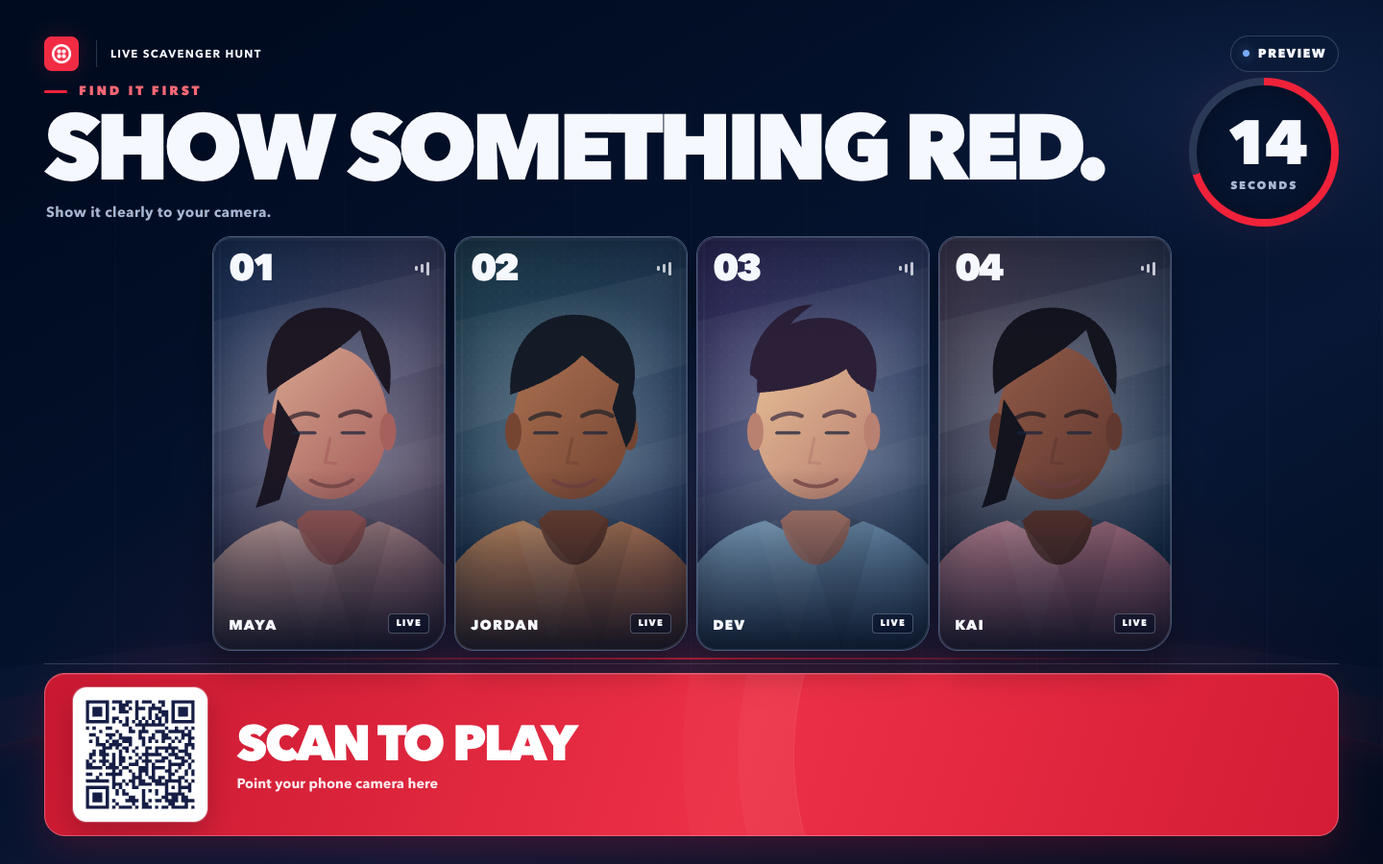
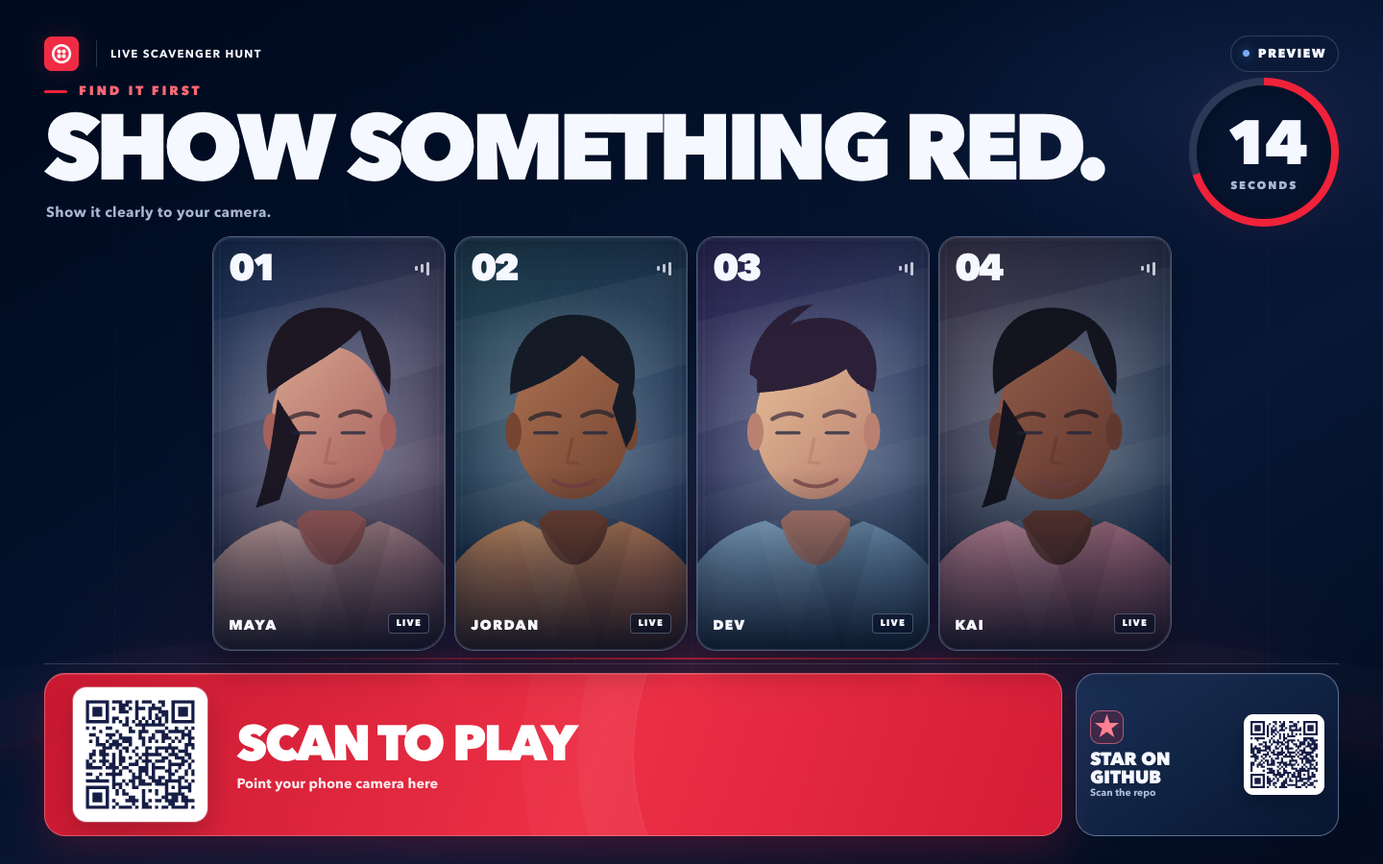
Promote GitHub repo across arena and attendee screens

Changed region(s): [[0.75, 0.7778, 0.9688, 0.9956]]

diff --git a/app/public/arena.html b/app/public/arena.html
@@ -228,6 +228,7 @@
     @keyframes go-flash { 0% { opacity: 0; transform: scale(.65); } 15% { opacity: 1; } 100% { opacity: 0; transform: scale(1.55); } }
 
     .footer { display: flex; align-items: stretch; justify-content: space-between; gap: clamp(12px, 1.6vw, 30px); min-width: 0; padding-top: clamp(8px, 1vh, 14px); border-top: 1px solid var(--line); }
+    .join-shell { flex: 1 1 auto; min-width: 0; display: flex; align-items: stretch; gap: clamp(10px, 1vw, 18px); }
     .join {
       position: relative; isolation: isolate; overflow: hidden;
       flex: 1 1 auto; display: flex; align-items: center;
@@ -246,12 +247,31 @@
     .qr-wrap svg { display: block; width: 100%; height: 100%; }
     .join-title { margin-top: clamp(4px, .6vh, 9px); font: 800 clamp(34px, 3.6vw, 67px)/.94 var(--font-display); letter-spacing: -.055em; text-transform: uppercase; white-space: nowrap; }
     .join-detail { margin-top: clamp(7px, .7vh, 12px); color: rgba(255,255,255,.9); font-size: clamp(13px, 1vw, 19px); font-weight: 700; white-space: nowrap; }
+    .github-star {
+      flex: 0 0 clamp(205px, 19vw, 286px); min-width: 0;
+      display: flex; align-items: center; justify-content: space-between; gap: 9px;
+      padding: clamp(10px, .95vw, 16px);
+      border: 1px solid rgba(174,199,240,.44); border-radius: clamp(16px, 1.5vw, 26px);
+      background: linear-gradient(145deg, rgba(25,49,88,.96), rgba(8,22,48,.95));
+      box-shadow: 0 14px 32px rgba(0,8,27,.2), 0 1px rgba(255,255,255,.07) inset;
+      color: var(--paper); text-decoration: none;
+      transition: border-color .2s ease, transform .2s ease, background .2s ease;
+    }
+    .github-star:hover { border-color: rgba(255,158,172,.8); transform: translateY(-2px); background: linear-gradient(145deg, rgba(42,55,91,.99), rgba(18,27,56,.97)); }
+    .github-star-copy { min-width: 0; display: flex; flex-direction: column; align-items: flex-start; justify-content: center; gap: clamp(6px, .7vh, 10px); }
+    .github-star-symbol { width: clamp(26px, 2.5vw, 35px); height: clamp(26px, 2.5vw, 35px); flex: none; display: grid; place-items: center; border-radius: 10px; background: rgba(239,34,58,.18); border: 1px solid rgba(255,124,143,.59); color: #ff8192; font-size: clamp(18px, 1.8vw, 26px); line-height: 1; }
+    .github-star-title { display: block; font: 800 clamp(14px, 1.32vw, 20px)/1 var(--font-display); letter-spacing: -.02em; text-transform: uppercase; text-wrap: balance; }
+    .github-star-short { display: none; }
+    .github-star-detail { display: block; color: #afc0db; font-size: clamp(9px, .72vw, 11px); font-weight: 700; line-height: 1.2; }
+    .github-qr-wrap { width: clamp(84px, 9.2vh, 112px); height: clamp(84px, 9.2vh, 112px); flex: none; display: grid; place-items: center; padding: 5px; border-radius: 10px; background: #fff; box-shadow: 0 8px 19px rgba(0,7,25,.35); }
+    .github-qr-wrap img { display: block; width: 100%; height: 100%; object-fit: contain; }
     .footer-status { flex: 0 1 27%; display: flex; align-items: center; justify-content: flex-end; gap: clamp(14px, 2vw, 32px); min-width: 0; padding: 18px clamp(15px, 2vw, 30px); border: 1px solid var(--line); border-radius: clamp(16px, 1.5vw, 26px); background: rgba(8,25,53,.7); text-align: right; }
     .footer-status[hidden] { display: none; }
     .footer-line { font: 800 clamp(16px, 1.45vw, 25px)/1.1 var(--font-display); letter-spacing: -.035em; text-wrap: balance; }
     .footer-detail { margin-top: 6px; color: var(--muted); font-size: clamp(10px, .84vw, 14px); font-weight: 700; text-wrap: balance; }
     .screen[data-phase="result"] .footer-status .footer-line { color: var(--paper); }
 
+    @media (max-width: 1100px) { .footer-status { display: none !important; } }
     @media (max-width: 900px) {
       .screen { grid-template-rows: 48px clamp(100px, 16vh, 145px) minmax(0, 1fr) clamp(138px, 18vh, 180px); padding: 18px 24px 16px; }
       .brand-event { max-width: 22vw; }
@@ -263,6 +283,11 @@
       .clock-value { font-size: 41px; }
       .tile-state { display: none; }
       .qr-wrap { width: clamp(105px, 14.2vh, 140px); height: clamp(105px, 14.2vh, 140px); }
+      .github-star { flex-basis: clamp(130px, 18vw, 180px); align-self: center; justify-content: center; height: clamp(72px, 10vh, 100px); }
+      .github-star-copy { flex-direction: row; align-items: center; gap: 7px; }
+      .github-qr-wrap, .github-star-detail, .github-star-full { display: none; }
+      .github-star-short { display: block; font-size: 14px; }
+      .github-star-symbol { width: 29px; height: 29px; font-size: 20px; }
     }
     @media (max-width: 680px) {
       .screen { grid-template-rows: 44px clamp(104px, 17.5vh, 150px) minmax(0, 1fr) clamp(116px, 17.5vh, 142px); padding: 12px 14px 12px; }
@@ -290,13 +315,17 @@
       .footer { gap: 8px; padding-top: 7px; }
       .qr-wrap { width: clamp(70px, 12vh, 88px); height: clamp(70px, 12vh, 88px); border-radius: 8px; padding: 5px; }
       .join { gap: 11px; padding: 8px 12px; border-radius: 13px; }.join-title { font-size: clamp(20px, 5.5vw, 29px); }.join-detail { display: none; }
+      .github-star { flex-basis: clamp(86px, 20vw, 125px); height: clamp(54px, 8vh, 70px); padding: 6px; border-radius: 13px; }
+      .github-star-copy { gap: 4px; }.github-star-symbol { width: 24px; height: 24px; border-radius: 7px; font-size: 17px; }.github-star-short { font-size: clamp(9px, 2vw, 12px); }
       .footer-status { display: none !important; }
       .footer-line { font-size: clamp(11px, 3.2vw, 15px); white-space: normal; }.footer-detail { font-size: 9px; white-space: normal; }
     }
     @media (max-width: 430px) { .screen.controls-visible .brand-event { opacity: 0; } }
     @media (max-width: 360px) {
       .screen { padding-left: 10px; padding-right: 10px; }
-      .join-title { font-size: 19px; }
+      .qr-wrap { width: 54px; height: 54px; }
+      .join { gap: 6px; padding-inline: 8px; }.join-title { font-size: 17px; }
+      .github-star { flex-basis: 86px; }.github-star-short { font-size: 9px; }
     }
     @media (max-height: 650px) and (min-width: 681px) {
       .screen { grid-template-rows: 44px 89px minmax(0,1fr) clamp(118px, 20vh, 132px); padding-top: 10px; padding-bottom: 10px; }
@@ -338,6 +367,10 @@
     html[data-theme="light"] .player-tile.is-winner .tile-state { color: #ffffff; }
     html[data-theme="light"] .countdown-number { color: #ffffff; text-shadow: 0 0 25px rgba(217,30,55,.7), 0 7px 36px rgba(11,27,57,.72); }
     html[data-theme="light"] .footer-status { background: rgba(255,255,255,.84); box-shadow: 0 12px 30px rgba(40,72,125,.1); }
+    html[data-theme="light"] .github-star { border-color: rgba(60,91,143,.4); background: linear-gradient(145deg, #fff, #eaf1fc); box-shadow: 0 12px 28px rgba(40,72,125,.11); }
+    html[data-theme="light"] .github-star:hover { border-color: rgba(188,44,69,.68); background: linear-gradient(145deg, #fff, #f7eefa); }
+    html[data-theme="light"] .github-star-symbol { background: #fff0f2; border-color: #d76075; color: #b71934; }
+    html[data-theme="light"] .github-star-detail { color: #526886; }
     @media (prefers-reduced-motion: reduce) {
       *, *::before, *::after { animation-duration: .01ms !important; animation-iteration-count: 1 !important; scroll-behavior: auto !important; transition-duration: .01ms !important; }
     }
@@ -364,7 +397,7 @@
     <section class="field" id="field" aria-label="Player camera wall"><div class="players" id="players" data-slots="2"></div><div class="countdown-overlay" aria-live="assertive"><span class="countdown-number" id="countdownNumber">3</span></div><div class="go-burst" aria-hidden="true"></div><div class="result-effects" aria-hidden="true"><div class="result-effects-glow"></div><div class="result-effects-rings"></div><div class="result-confetti" id="resultConfetti"></div></div></section>
 
     <footer class="footer">
-      <a class="join" href="#" id="joinLink" aria-label="Open the player page"><div class="qr-wrap" aria-label="Scan to join Live Scavenger Hunt"><img id="joinQr" src="" alt="Scan to join the game"></div><div><div class="join-title" id="joinTitle">Scan to play</div><div class="join-detail" id="joinDetail">Point your phone camera here</div></div></a>
+      <div class="join-shell"><a class="join" href="#" id="joinLink" aria-label="Open the player page"><div class="qr-wrap" aria-label="Scan to join Live Scavenger Hunt"><img id="joinQr" src="" alt="Scan to join the game"></div><div><div class="join-title" id="joinTitle">Scan to play</div><div class="join-detail" id="joinDetail">Point your phone camera here</div></div></a><a class="github-star" id="githubStarLink" href="https://github.com/anthonyplusAI/twilio-live-scavenger-hunt" target="_blank" rel="noopener noreferrer" aria-label="Star Live Scavenger Hunt on GitHub (opens in a new tab)"><span class="github-star-copy"><span class="github-star-symbol" aria-hidden="true">★</span><span><strong class="github-star-title github-star-full">Star on<br>GitHub</strong><strong class="github-star-title github-star-short">Star<br>GitHub</strong><small class="github-star-detail">Scan the repo</small></span></span><span class="github-qr-wrap"><img id="githubQr" src="" alt="Scan to open the GitHub repository"></span></a></div>
       <div class="footer-status" id="footerStatus" hidden><div><div class="footer-line" id="footerLine">Want to build this?</div><div class="footer-detail" id="footerDetail">Ask us at the Twilio booth</div></div></div>
     </footer>
   </main>

diff --git a/app/public/vote.css b/app/public/vote.css
@@ -152,9 +152,12 @@ button:focus-visible, a:focus-visible { outline: 2px solid #86d7ff; outline-offs
 .channel-strip b { color: white; }
 .foot { justify-content: flex-start; gap: 14px; border-top: 1px solid #51709033; padding: 0 clamp(18px, 3vw, 42px); color: #91a8c2; font-size: 10px; font-weight: 800; letter-spacing: .12em; white-space: nowrap; }
 .foot-rule { width: 28px; height: 1px; background: #7894b4; }
-.foot a { margin-left: auto; color: #e6f3ff; text-decoration: none; letter-spacing: 0; font-weight: 500; }
+.foot-actions { display: flex; align-items: center; gap: clamp(10px, 1.5vw, 22px); margin-left: auto; }
+.foot a { color: #e6f3ff; text-decoration: none; letter-spacing: 0; font-weight: 500; }
 .foot a b { color: #ff697d; }
 .foot a:hover b { text-decoration: underline; }
+.foot .github-foot-link { display: inline-flex; align-items: center; gap: 5px; min-height: 30px; padding: 6px 11px; border: 1px solid #ff7f8e8f; border-radius: 999px; background: #ef223a1c; color: #fff1f3; font-size: 10px; font-weight: 800; line-height: 1; }
+.foot .github-foot-link:hover { border-color: #ffabb5; background: #ef223a3a; }
 @media (max-width: 760px) {
   .voter-app { grid-template-rows: 56px minmax(0, 1fr) 41px; }
   .masthead { padding: 0 12px; }
@@ -201,11 +204,12 @@ button:focus-visible, a:focus-visible { outline: 2px solid #86d7ff; outline-offs
   .channel-strip > div { gap: 2px 9px; }
   .channel-strip span:not(.channel-label) { font-size: 9px; }
   .foot { padding: 0 10px; gap: 7px; font-size: 7px; letter-spacing: .07em; }
-  .foot-rule { width: 12px; }
+  .foot-rule, .foot-no-signup { display: none; }
+  .foot-actions { gap: 8px; }
   .foot a { font-size: 8px; }
   .foot a b { font-weight: 800; }
 }
-@media (max-width: 390px) { .brand strong { font-size: 11px; } .foot > span:nth-of-type(3), .foot-rule { display: none; } }
+@media (max-width: 390px) { .brand strong { font-size: 11px; } }
 @media (max-height: 640px) and (max-width: 760px) {
   .intro { max-height: 96px; }
   .intro h1 { font-size: 29px; margin: 8px 0 4px; }
@@ -235,9 +239,14 @@ button:focus-visible, a:focus-visible { outline: 2px solid #86d7ff; outline-offs
   .channel-label { font-size: 8px; }
   .channel-strip span:not(.channel-label) { font-size: 9px; }
   .foot { font-size: 9px; letter-spacing: .04em; }
-  .foot > span:nth-of-type(3), .foot-rule { display: none; }
+  .foot-no-signup, .foot-rule { display: none; }
   #event-name { min-width: 0; max-width: 42%; overflow: hidden; text-overflow: ellipsis; }
   .foot a { font-size: 11px; white-space: nowrap; }
+  .foot .github-foot-link { font-size: 10px; }
+}
+@media (max-width: 480px) {
+  #event-name, .play-preface { display: none; }
+  .foot-actions { width: 100%; justify-content: space-between; margin-left: 0; }
 }
 @media (max-width: 360px) {
   .brand strong { font-size: 10.5px; }
@@ -286,6 +295,8 @@ html[data-theme="light"] .atmosphere::after { background: repeating-linear-gradi
 html[data-theme="light"] .beam { background: linear-gradient(to bottom, #6a9ac012, #3c6ea31a 55%, transparent); }
 html[data-theme="light"] .floor-grid { opacity: .16; }
 html[data-theme="light"] .masthead, html[data-theme="light"] .foot { background: #fffffff0; border-color: #c2cfe0; }
+html[data-theme="light"] .foot a.github-foot-link { border-color: #cc5066; background: #fff0f2; color: #8b1430; }
+html[data-theme="light"] .foot a.github-foot-link:hover { background: #ffe2e8; border-color: #ab1d37; }
 html[data-theme="light"] .brand-kicker { color: #536a84; }
 html[data-theme="light"] .brand em, html[data-theme="light"] .intro h1 span { color: #ba1730; }
 html[data-theme="light"] .connection-status { background: #eef3f9; border-color: #a7b9cf; color: #29405f; }

diff --git a/app/public/metrics.html b/app/public/metrics.html
@@ -48,7 +48,7 @@
           </div>
           <div class="overview-lower">
             <section class="surface trend-surface" aria-labelledby="trend-heading"><div class="surface-head"><div><span class="eyebrow">THE CROWD OVER TIME</span><h2 id="trend-heading">Daily activity</h2></div><div class="legend"><i></i><span class="legend-prefix">Player joins · </span><span id="chart-scope">7-day view</span></div></div><div id="activity-chart" class="activity-chart"></div><div id="chart-axis" class="chart-axis"></div></section>
-            <section class="surface funnel-surface" aria-labelledby="funnel-heading"><div class="surface-head"><div><span class="eyebrow">FROM INTEREST TO INTENT</span><h2 id="funnel-heading">Visitor journey</h2></div><span id="funnel-rate" class="small-stat">0% lead rate</span></div><div id="funnel-rows" class="funnel-rows"></div><div class="surface-foot outbound-foot"><span class="outbound-note">Journey stages use anonymous sessions; outbound links count clicks.</span><div class="product-link-breakdown" title="Clicks on official Twilio product pages, grouped by product"><span>VIDEO <strong id="product-video-clicks">0</strong></span><span>MESSAGING <strong id="product-messaging-clicks">0</strong></span><span>SEGMENT <strong id="product-segment-clicks">0</strong></span></div></div></section>
+            <section class="surface funnel-surface" aria-labelledby="funnel-heading"><div class="surface-head"><div><span class="eyebrow">FROM INTEREST TO INTENT</span><h2 id="funnel-heading">Visitor journey</h2></div><span id="funnel-rate" class="small-stat">0% lead rate</span></div><div id="funnel-rows" class="funnel-rows"></div><div class="surface-foot outbound-foot"><span class="outbound-note">Journey stages use anonymous sessions; outbound links count clicks.</span><div class="product-link-breakdown" title="Clicks on official Twilio product pages, grouped by product"><span>VIDEO <strong id="product-video-clicks">0</strong></span><span>MESSAGING <strong id="product-messaging-clicks">0</strong></span><span>SEGMENT <strong id="product-segment-clicks">0</strong></span></div><div class="github-source-breakdown" title="GitHub repository clicks by where visitors found the link"><span>PHONE <strong id="repo-phone-clicks">0</strong></span><span>VOTE <strong id="repo-spectator-clicks">0</strong></span><span>WALL QR <strong id="repo-arena-qr-clicks">0</strong></span><span>WALL LINK <strong id="repo-arena-link-clicks">0</strong></span></div></div></section>
           </div>
         </section>
 

diff --git a/app/public/metrics.css b/app/public/metrics.css
@@ -103,7 +103,9 @@ html[data-theme="light"] .vote-choice-row .choice-type{color:#47698d}
 @media(max-width:480px){.heading .eyebrow{display:none}.heading h1{margin-top:0;font-size:25px}}
 .funnel-surface .outbound-foot{display:flex;flex-direction:column;align-items:stretch;gap:4px;padding-top:7px;margin-top:5px}
 .outbound-note{font-size:10px;line-height:1.1;color:var(--dim)}
-.product-link-breakdown{display:flex;align-items:center;justify-content:space-between;gap:8px;white-space:nowrap;font-size:10px;letter-spacing:.05em;color:var(--muted)}
-.product-link-breakdown strong{margin-left:3px;color:var(--text);font-variant-numeric:tabular-nums}
-@media(max-width:760px){.funnel-surface .outbound-foot{gap:2px;padding-top:3px;margin-top:2px}.outbound-note{font-size:7px}.product-link-breakdown{font-size:7px;gap:4px}}
-@media(max-height:640px) and (max-width:760px){.overview-lower{grid-template-rows:minmax(0,.4fr) minmax(0,.6fr)}.funnel-surface .outbound-foot{display:flex;gap:2px;padding-top:3px;margin-top:2px}.outbound-note{font-size:8px}.product-link-breakdown{font-size:8px;gap:3px}.funnel-rows{gap:1px}.funnel-row span,.funnel-row strong{font-size:9px}}
+.product-link-breakdown,.github-source-breakdown{display:flex;align-items:center;justify-content:space-between;gap:8px;white-space:nowrap;font-size:10px;letter-spacing:.05em;color:var(--muted)}
+.github-source-breakdown{padding-top:4px;border-top:1px solid #32486a;color:#e5b6c2}
+html[data-theme="light"] .github-source-breakdown{border-color:#c5d1df;color:#8f3850}
+.product-link-breakdown strong,.github-source-breakdown strong{margin-left:3px;color:var(--text);font-variant-numeric:tabular-nums}
+@media(max-width:760px){.funnel-surface .outbound-foot{gap:2px;padding-top:3px;margin-top:2px}.outbound-note{font-size:7px}.product-link-breakdown,.github-source-breakdown{font-size:7px;gap:4px}.github-source-breakdown{padding-top:2px}}
+@media(max-height:640px) and (max-width:760px){.overview-lower{grid-template-rows:minmax(0,.4fr) minmax(0,.6fr)}.funnel-surface .outbound-foot{display:flex;gap:2px;padding-top:3px;margin-top:2px}.outbound-note{font-size:8px}.product-link-breakdown{font-size:8px;gap:3px}.github-source-breakdown{display:none}.funnel-rows{gap:1px}.funnel-row span,.funnel-row strong{font-size:9px}}

diff --git a/app/public/player.js b/app/public/player.js
@@ -8,7 +8,6 @@ const isResultDemo = ['win', 'lose', 'tie', 'no-match', 'build'].includes(demoMo
 const screen = document.getElementById('screen');
 const eventName = document.getElementById('eventName');
 const modeLabel = document.getElementById('modeLabel');
-const arenaFooterLink = document.getElementById('arenaFooterLink');
 const githubFooterLink = document.getElementById('githubFooterLink');
 const sessionDialog = document.getElementById('sessionDialog');
 for (const link of document.querySelectorAll('[data-arena-link]')) {
@@ -96,7 +95,7 @@ function activity(type, properties = {}) {
   if (onceKey) app.activity.add(onceKey);
   request('/activity', { method: 'POST', body: { type, ...properties }, keepalive: true }).catch(() => {});
 }
-githubFooterLink.addEventListener('click', () => activity('github_cta_opened'));
+githubFooterLink.addEventListener('click', () => activity('github_cta_opened', { source: 'phone' }));
 
 function applyState(payload) {
   if (!payload || !payload.state) return;
@@ -308,13 +307,10 @@ function render(force = false) {
   const customEventName = String(app.event.name || '').trim();
   eventName.textContent = customEventName.toUpperCase() === 'LIVE SCAVENGER HUNT' ? '' : customEventName;
   eventName.hidden = !eventName.textContent;
-  const postGame = ['result', 'complete', 'build', 'lead', 'thanks'].includes(view);
   const fullModeLabel = isResultDemo ? 'Visual preview · no live camera' : app.event.mediaMode === 'twilio' ? 'Powered by Twilio Video' : app.event.mediaMode === 'rehearsal' ? 'Local rehearsal · camera snapshots' : 'Waiting for booth setup';
   const shortModeLabel = isResultDemo ? 'Visual preview' : app.event.mediaMode === 'twilio' ? 'Twilio Video' : app.event.mediaMode === 'rehearsal' ? 'Local rehearsal' : 'Booth setup';
-  modeLabel.textContent = postGame ? shortModeLabel : fullModeLabel;
+  modeLabel.textContent = shortModeLabel;
   modeLabel.setAttribute('aria-label', fullModeLabel);
-  arenaFooterLink.hidden = postGame;
-  githubFooterLink.hidden = !postGame;
   $('leaveButton').hidden = isResultDemo || !['queued', 'waiting', 'countdown', 'hunt', 'review'].includes(view);
 
   if (view === 'intro') {

diff --git a/app/public/player.html b/app/public/player.html
@@ -38,7 +38,7 @@
   <div class="app">
     <header class="top"><a class="brand" href="#" data-arena-link aria-label="Live Scavenger Hunt arena"><img src="/assets/twilio-bug-official.png" alt="Twilio"><span>LIVE SCAVENGER HUNT</span></a><div class="top-controls"><div class="event-label" id="eventName" hidden></div><button type="button" class="leave-game" id="leaveButton" hidden>Leave</button><button type="button" class="theme-toggle" data-theme-toggle></button></div></header>
     <main><div class="screen" id="screen" aria-live="polite"></div></main>
-    <footer class="bottom"><span id="modeLabel">Connecting to the arena</span><a id="arenaFooterLink" href="#" data-arena-link>Arena ↗</a><a id="githubFooterLink" class="github-footer-link" href="https://github.com/anthonyplusAI/twilio-live-scavenger-hunt" target="_blank" rel="noopener noreferrer" aria-label="Star Live Scavenger Hunt on GitHub (opens in a new tab)" hidden><span aria-hidden="true">★</span><span>Star on GitHub</span><span aria-hidden="true">↗</span></a></footer>
+    <footer class="bottom"><span id="modeLabel">Connecting to the arena</span><a id="githubFooterLink" class="github-footer-link" href="https://github.com/anthonyplusAI/twilio-live-scavenger-hunt" target="_blank" rel="noopener noreferrer" aria-label="Star Live Scavenger Hunt on GitHub (opens in a new tab)"><span aria-hidden="true">★</span><span>Star on GitHub</span><span aria-hidden="true">↗</span></a></footer>
     <dialog id="sessionDialog" class="session-dialog" aria-labelledby="sessionDialogTitle" aria-describedby="sessionDialogText"><p class="session-dialog-kicker">Your player spot</p><h2 id="sessionDialogTitle">Leave the game?</h2><p id="sessionDialogText">Your camera will turn off and your spot will open for another player.</p><p id="sessionDialogCountdown" class="session-dialog-countdown" hidden></p><div class="session-dialog-actions"><button type="button" id="sessionStayButton" class="primary">Keep playing</button><button type="button" id="sessionLeaveButton" class="secondary">Leave game</button></div></dialog>
   </div>
   <script type="module" src="/player.js"></script>

diff --git a/app/public/metrics.js b/app/public/metrics.js
@@ -177,11 +177,18 @@ function buildSummary(records, leads) {
     const product = row.properties.product;
     if (Object.hasOwn(twilioProductLinkClicksByProduct, product)) twilioProductLinkClicksByProduct[product]++;
   });
-  const githubRepoClicks = byType("github_cta_opened").length;
+  const githubLinkRows = byType("github_cta_opened");
+  const githubRepoClicks = githubLinkRows.length;
+  const githubRepoClicksBySource = { phone: 0, spectator: 0, arenaQr: 0, arenaLink: 0 };
+  githubLinkRows.forEach(row => {
+    const source = row.properties.source;
+    const key = source === "arena_qr" ? "arenaQr" : source === "arena_link" ? "arenaLink" : source === "spectator" ? "spectator" : "phone";
+    githubRepoClicksBySource[key]++;
+  });
   return {
     totalEvents: records.length, uniqueVisitors, uniquePlayers,
     engagementActions: records.filter(row => engagementTypes.has(row.type)).length,
-    twilioProductLinkClicks, twilioProductLinkClicksByProduct, githubRepoClicks,
+    twilioProductLinkClicks, twilioProductLinkClicksByProduct, githubRepoClicks, githubRepoClicksBySource,
     playerEntries,
     heatsCompleted: new Set(heatEnds.map(row => `${row.eventId}:${row.properties.heatId || row.id}`)).size,
     averagePlayers: heatStarts.length ? playerEntries / heatStarts.length : 0,
@@ -267,6 +274,8 @@ function renderOverview(summary) {
   setText("kpi-actions", number(summary.engagementActions));
   setText("kpi-leads", number(state.leads.length));
   for (const product of ["video", "messaging", "segment"]) setText(`product-${product}-clicks`, number(summary.twilioProductLinkClicksByProduct[product]));
+  for (const [source, id] of [["phone", "repo-phone-clicks"], ["spectator", "repo-spectator-clicks"], ["arenaQr", "repo-arena-qr-clicks"], ["arenaLink", "repo-arena-link-clicks"]])
+    setText(id, number(summary.githubRepoClicksBySource[source]));
   renderChart(summary); renderFunnel(summary);
 }
 function pageSize(kind) {

diff --git a/app/public/vote.js b/app/public/vote.js
@@ -181,13 +181,18 @@ function setConnection(label, mode) {
   element.replaceChildren(make("i"), document.createTextNode(` ${label}`));
 }
 let visitRecorded = false;
+function recordActivity(type, properties = {}) {
+  if (!slug) return;
+  fetch(`/api/e/${encodeURIComponent(slug)}/activity`, {
+    method: "POST", credentials: "same-origin", keepalive: true,
+    headers: { "Content-Type": "application/json" },
+    body: JSON.stringify({ type, ...properties }),
+  }).catch(() => {});
+}
 function recordVisit() {
   if (visitRecorded || !slug) return;
   visitRecorded = true;
-  fetch(`/api/e/${encodeURIComponent(slug)}/activity`, {
-    method: "POST", credentials: "same-origin", headers: { "Content-Type": "application/json" },
-    body: JSON.stringify({ type: "vote_page_opened" }),
-  }).catch(() => {});
+  recordActivity("vote_page_opened");
 }
 function applyPayload(payload) {
   if (!payload || typeof payload !== "object") return;
@@ -253,6 +258,7 @@ async function submitVote(choice) {
 }
 
 setInterval(updateClock, 250);
+$("github-link").addEventListener("click", () => recordActivity("github_cta_opened", { source: "spectator" }));
 document.addEventListener("visibilitychange", () => { if (!document.hidden) refresh(); });
 window.addEventListener("pagehide", () => state.source?.close());
 refresh();

diff --git a/app/public/vote.html b/app/public/vote.html
@@ -34,7 +34,7 @@
       <div id="channel-strip" class="channel-strip" hidden><span class="channel-label">OTHER WAYS TO VOTE</span><div id="channel-instructions"></div></div>
     </main>
 
-    <footer class="foot"><span id="event-name">LIVE SCAVENGER HUNT</span><span class="foot-rule"></span><span>NO SIGN-UP REQUIRED</span><a id="play-link" href="#">Want to play? <b>Play the game ↗</b></a></footer>
+    <footer class="foot"><span id="event-name">LIVE SCAVENGER HUNT</span><span class="foot-rule"></span><span class="foot-no-signup">NO SIGN-UP REQUIRED</span><div class="foot-actions"><a id="github-link" class="github-foot-link" href="https://github.com/anthonyplusAI/twilio-live-scavenger-hunt" target="_blank" rel="noopener noreferrer" aria-label="Star Live Scavenger Hunt on GitHub (opens in a new tab)"><span aria-hidden="true">★</span> Star on GitHub <span aria-hidden="true">↗</span></a><a id="play-link" href="#" aria-label="Play Live Scavenger Hunt"><span class="play-preface">Want to play? </span><b>Play the game ↗</b></a></div></footer>
   </div>
   <script type="module" src="/vote.js"></script>
 </body>

diff --git a/app/public/arena.js b/app/public/arena.js
@@ -2,6 +2,7 @@ const slug = decodeURIComponent(location.pathname.split('/')[2] || 'demo');
 const apiBase = `/api/e/${encodeURIComponent(slug)}`;
 const adminBase = `/api/admin/e/${encodeURIComponent(slug)}`;
 const routeBase = `/e/${encodeURIComponent(slug)}`;
+const githubRepoUrl = 'https://github.com/anthonyplusAI/twilio-live-scavenger-hunt';
 const requestedDemo = new URLSearchParams(location.search).get('demo');
 const previewMode = ['hunt', 'win', 'lose', 'tie', 'no-match'].includes(requestedDemo) ? requestedDemo : null;
 const screen = document.getElementById('screen');
@@ -42,6 +43,8 @@ const app = {
 
 $('operatorLink').href = `${routeBase}/operator`;
 $('joinLink').href = `${routeBase}/play`;
+$('githubStarLink').href = previewMode ? githubRepoUrl : `${routeBase}/github?source=arena_link`;
+$('githubQr').src = `${apiBase}/qr.svg?target=github${previewMode ? '&preview=1' : ''}`;
 
 const now = () => Date.now() + app.serverOffset;
 const timeLeft = deadline => deadline ? Math.max(0, Math.ceil((new Date(deadline).getTime() - now()) / 1000)) : 0;

diff --git a/app/public/game.css b/app/public/game.css
@@ -6,7 +6,6 @@
 .player-page .bottom a { flex: none; }
 .player-page .bottom .github-footer-link { display: inline-flex; align-items: center; justify-content: center; gap: 5px; min-height: 30px; padding: 5px 9px; border: 1px solid #ff7f8e8f; border-radius: 999px; background: #ef223a1c; color: #fff1f3; font-size: 10px; font-weight: 800; letter-spacing: .02em; line-height: 1; text-transform: none; transition: border-color .18s, background .18s, transform .18s; }
 .player-page .bottom .github-footer-link:hover { border-color: #ffabb5; background: #ef223a3a; transform: translateY(-1px); }
-.player-page .bottom .github-footer-link[hidden] { display: none; }
 .player-page .intro-title { font-size: clamp(38px, 9.5vw, 65px); line-height: .94; letter-spacing: -.06em; }
 .player-page .player-visual {
   width: min(100%, 256px);

diff --git a/README.md b/README.md
@@ -15,29 +15,30 @@ A live camera race that turns an expo booth into a moment the whole crowd can wa
 
 <p align="center"><a href="https://github.com/anthonyplusAI/twilio-live-scavenger-hunt"><strong>★ Star the project on GitHub</strong></a></p>
 
-![Four-player Live Scavenger Hunt arena preview](docs/visuals/live-scavenger-hunt-arena-4-players.png)
+![Four-player Live Scavenger Hunt arena preview with a prominent play QR and smaller GitHub star QR](docs/visuals/live-scavenger-hunt-arena-4-players.png)
 
-<p align="center"><em>Illustrated arena preview. In a configured live event, each portrait spot carries that player's phone camera.</em></p>
+<p align="center"><em>Illustrated arena preview. In a configured live event, each portrait spot carries that player's phone camera. The smaller star QR opens this repository.</em></p>
 
 <p align="center">
   <a href="#the-experience">The experience</a> ·
   <a href="#see-the-moment">See the moment</a> ·
-  <a href="#quick-start">Quick start</a> ·
+  <a href="#star-the-build">Star the build</a> ·
   <a href="#twilio-product-story">Twilio product story</a> ·
+  <a href="#quick-start">Quick start</a> ·
   <a href="#production-handoff">Production handoff</a>
 </p>
 
 ## The experience
 
-A visitor scans the arena QR code, picks a screen name, consents to appear on the booth display, and joins with their phone camera. The arena adjusts its portrait-card layout to the number of players. The clue stays sealed until the roster locks and the shared countdown reaches **GO**.
+A visitor scans the arena's prominent **Scan to play** QR, picks a screen name, consents to appear on the booth display, and joins with their phone camera. The arena adjusts its portrait-card layout to the number of players. The clue stays sealed until the roster locks and the shared countdown reaches **GO**.
 
 Then everyone races to show the requested color, object, shape, printed tech word, or creative find. Simple color prompts can be checked from repeated camera frames. Other prompts can use optional AI vision or a booth operator's judgment. The operator can award one winner, several winners in a tie, or no match. The result lands on the arena **and** each player's phone.
 
-Spectators can take part through a web ballot. With configured senders, SMS or WhatsApp ballots can steer the next challenge category or vote on a creative round. After playing, visitors can follow a visual phone-to-arena product story, open official Twilio pages for each featured product, and voluntarily request a guide or a conversation with the booth team. A **Star on GitHub** link stays in the phone footer after the heat, while the arena remains focused on its scan-to-play QR. Joining and voting never require a lead form.
+Spectators can take part through a web ballot. With configured senders, SMS or WhatsApp ballots can steer the next challenge category or vote on a creative round. After playing, visitors can follow a visual phone-to-arena product story, open official Twilio pages for each featured product, and voluntarily request a guide or a conversation with the booth team. A small **Star on GitHub** card sits beside the arena's larger play or vote QR; booth-sized displays show a second QR in the card. The repo link also stays in the attendee phone footer throughout the journey and appears on the spectator ballot. Joining and voting never require a lead form.
 
 | Booth moment | What the app does |
 | --- | --- |
-| **Draw a crowd** | A large, responsive arena shows 2–6 portrait player spots, a prominent scan-to-play QR, a shared clock, and a synchronized result reveal. |
+| **Draw a crowd** | A large, responsive arena shows 2–6 portrait player spots, a prominent scan-to-play QR, a smaller GitHub star QR on booth displays, a shared clock, and a synchronized result reveal. |
 | **Keep the race fair** | The server seals the prompt until GO. Start rules and timers are set per event; an operator can start a ready heat manually. |
 | **Keep staff in control** | Operators can pause, choose a prompt, judge or correct a result, award ties, and remove a player from the live heat or queue. |
 | **Measure engagement** | Private reports filter by event and date and cover joins, plays, heats, votes, product and GitHub link clicks, leads, player exits, and removals. |
@@ -50,8 +51,8 @@ These are **visual previews with illustrated stand-ins**, captured from the runn
 <table>
   <tr><th>Arena · first find</th><th>Arena · another player wins</th></tr>
   <tr>
-    <td><img src="docs/visuals/live-scavenger-hunt-arena-win.png" alt="Arena celebrating Maya as the winner" width="680"></td>
-    <td><img src="docs/visuals/live-scavenger-hunt-arena-lose.png" alt="Arena showing another player's win and a nice-try state" width="680"></td>
+    <td><img src="docs/visuals/live-scavenger-hunt-arena-win.png" alt="Arena celebrating Maya as the winner with the smaller GitHub star QR beside the play QR" width="680"></td>
+    <td><img src="docs/visuals/live-scavenger-hunt-arena-lose.png" alt="Arena showing another player's win, a nice-try state, and the GitHub star QR" width="680"></td>
   </tr>
   <tr><th>Phone · winner</th><th>Phone · not this round</th></tr>
   <tr>
@@ -64,17 +65,31 @@ The motion plays in the browser: the arena spotlights a first find and acknowled
 
 The wall also rearranges for traffic at the booth:
 
-![Six-player Live Scavenger Hunt arena preview](docs/visuals/live-scavenger-hunt-arena-6-players.png)
+![Six-player Live Scavenger Hunt arena preview with a secondary GitHub star QR](docs/visuals/live-scavenger-hunt-arena-6-players.png)
 
-The arena stays in show mode: only the Twilio identity and heat status remain at the top. Moving a pointer, touching the screen, or pressing Tab reveals Operator, theme, and media controls for staff; the strip hides again after five seconds of inactivity.
+The arena stays in show mode: only the Twilio identity and heat status remain at the top. Its play or vote QR remains the dominant footer action; a smaller star card lets visitors scan through to the [source repository](https://github.com/anthonyplusAI/twilio-live-scavenger-hunt) on booth-sized displays and remains a clickable link on compact screens. Moving a pointer, touching the screen, or pressing Tab reveals Operator, theme, and media controls for staff; the strip hides again after five seconds of inactivity.
 
 After starting the app, open the read-only [four-player hunt](http://127.0.0.1:65111/e/live-scavenger-hunt/arena?demo=hunt&players=4), [arena win](http://127.0.0.1:65111/e/live-scavenger-hunt/arena?demo=win), [arena loss](http://127.0.0.1:65111/e/live-scavenger-hunt/arena?demo=lose), [phone win](http://127.0.0.1:65111/e/live-scavenger-hunt/play?demo=win), [phone loss](http://127.0.0.1:65111/e/live-scavenger-hunt/play?demo=lose), or [product story](http://127.0.0.1:65111/e/live-scavenger-hunt/play?demo=build) preview. Use **Replay reveal** on a result screen to watch the animation again. Preview URLs do not start a heat, connect a camera, judge a player, collect leads, or write metrics; their outbound links still open the linked sites.
+
+## Star the build
+
+The arena keeps the game QR large and gives the [source repository](https://github.com/anthonyplusAI/twilio-live-scavenger-hunt) a smaller star card with its own QR on booth displays. The player phone and spectator ballot keep **Star on GitHub** visible in their compact footers. Admin reports attribute GitHub referrals to the phone, ballot, wall QR, or wall link; they count outbound taps and scans, not confirmed visits or stars.
+
+<table>
+  <tr><th>Player phone · before joining</th><th>Spectator phone · between ballots</th></tr>
+  <tr>
+    <td align="center"><img src="docs/visuals/live-scavenger-hunt-phone-join.png" alt="Local rehearsal player join preview with an illustrated phone camera spot and Star on GitHub footer link" width="300"></td>
+    <td align="center"><img src="docs/visuals/live-scavenger-hunt-vote.png" alt="Spectator ballot preview waiting for the next vote, with a Star on GitHub footer link" width="300"></td>
+  </tr>
+</table>
+
+<p align="center"><em>Local phone previews. The player portrait is an illustration, not a live camera feed; the spectator ballot is waiting for its next vote.</em></p>
 
 ## Twilio product story
 
 The post-heat CTA opens a one-screen visual explanation: a phone camera reaches the arena through **Twilio Video** in a configured live event. Visitors can tap **Messaging** to see how SMS or WhatsApp ballots work, or **Segment** to see how game activity becomes engagement data. The screen keeps optional integrations distinct from the core Video path.
 
-Each product panel links to its official Twilio page: [Video](https://www.twilio.com/en-us/video), [Programmable Messaging](https://www.twilio.com/en-us/messaging/apis/programmable-messaging-api), or [Segment](https://www.twilio.com/en-us/segment). The phone's **Star on GitHub** link remains visible after the result, including while visitors explore the build story or request a follow-up.
+Each product panel links to its official Twilio page: [Video](https://www.twilio.com/en-us/video), [Programmable Messaging](https://www.twilio.com/en-us/messaging/apis/programmable-messaging-api), or [Segment](https://www.twilio.com/en-us/segment). The phone's **Star on GitHub** link is visible from joining through the result and product story, including the optional follow-up form.
 
 <table>
   <tr><th>Dark display</th><th>Light display</th></tr>
@@ -126,7 +141,7 @@ Run `npm run check` for the browser build, server tests, and README link check. 
 
 ## Metrics and leads
 
-The admin-only Metrics view filters by event and date range, shows the engagement funnel and outbound **Twilio page** and **GitHub repo** click counts, and exports filtered event or lead CSV. Twilio page clicks are also broken down by Video, Messaging, and Segment. These counts record link clicks, not confirmed page loads or GitHub stars. Local reports persist in SQLite even when Segment is not configured. Lead capture can be switched off per event; when on, an admin chooses up to eight fields and which are required. The guide and expert CTAs are optional. Marketing updates require a separate, unchecked choice.
+The admin-only Metrics view filters by event and date range, shows the engagement funnel and outbound **Twilio page** and **GitHub repo** click counts, and exports filtered event or lead CSV. Twilio clicks are broken down by Video, Messaging, and Segment; GitHub referrals are attributed to the player phone, spectator ballot, arena QR, or arena link. Compact metrics screens keep the total visible, with source details in the report and event export. These counts record outbound actions, not confirmed page loads or GitHub stars. Local reports persist in SQLite even when Segment is not configured. Lead capture can be switched off per event; when on, an admin chooses up to eight fields and which are required. The guide and expert CTAs are optional. Marketing updates require a separate, unchecked choice.
 
 The app stores event configuration, heat history, votes, metrics, and requested leads in SQLite. Video is not recorded by this app, and camera evidence JPEGs are kept briefly in memory rather than saved to the database. Lead retention is configurable per event.
 
